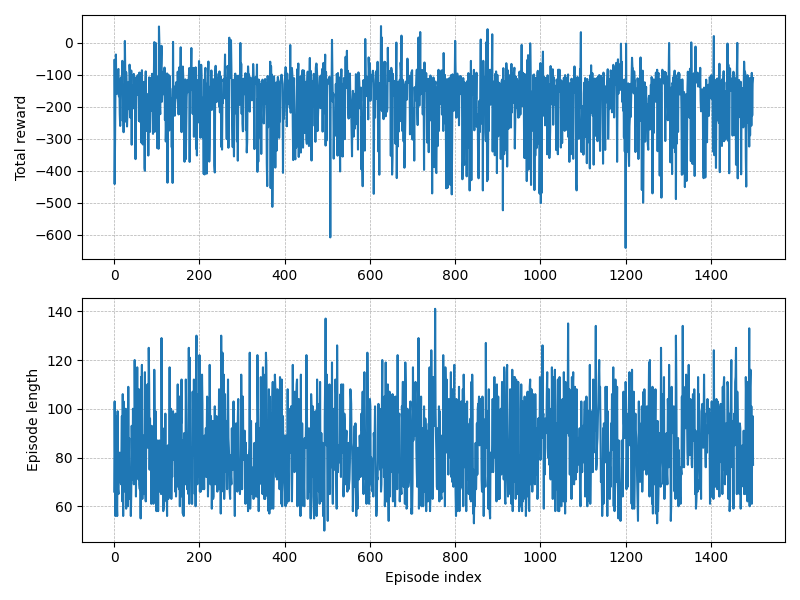
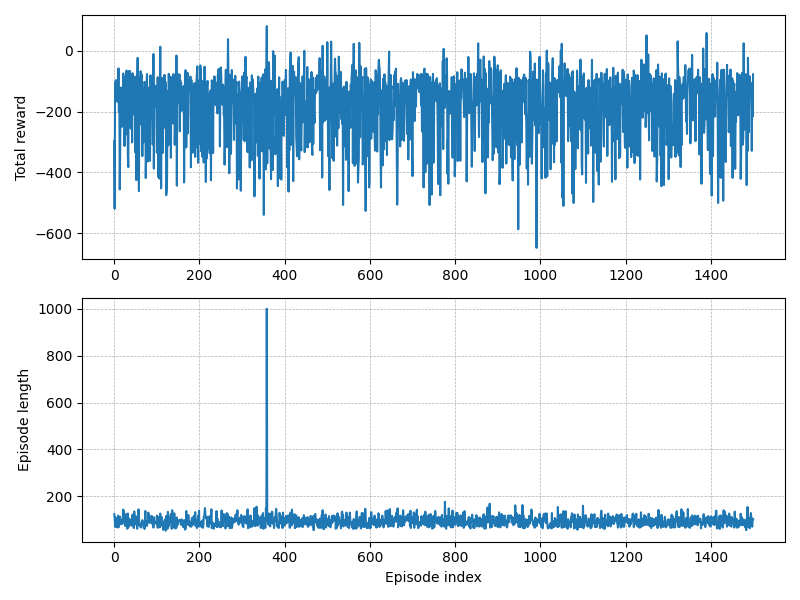
Hyperparameters update

diff --git a/lecture10/A2C.py b/lecture10/A2C.py
@@ -9,7 +9,7 @@ import network
 from pathlib import Path
 
 # Hyperparameters
-NUM_EPISODES = 1500
+NUM_EPISODES = 4800
 MAX_EPISODE_LENGTH = 10000
 gamma = 0.99
 learning_rate_theta = 5e-4
@@ -77,11 +77,7 @@ def A2C_learning(env, num_episodes=NUM_EPISODES):
                     td_target = reward
                 else:
                     # Sample next action (SARSA style)
-                    next_action_probs = actor(next_state_tensor)
-                    next_dist = torch.distributions.Categorical(next_action_probs)
-                    # next_action = next_dist.sample().item()
-
-                    # next_action_one_hot = F.one_hot(torch.tensor([next_action]), num_classes=action_size).float()
+                                        
                     v_snext = critic(next_state_tensor)
                     td_target = reward + gamma * v_snext
 

diff --git a/lecture10/QAC.py b/lecture10/QAC.py
@@ -9,8 +9,8 @@ import network
 from pathlib import Path
 
 # Hyperparameters
-NUM_EPISODES = 1500
-MAX_EPISODE_LENGTH = 1000
+NUM_EPISODES = 4800
+MAX_EPISODE_LENGTH = 10000
 gamma = 0.99
 learning_rate_theta = 5e-4
 learning_rate_w = 5e-4

diff --git a/lecture10/A2C_off_policy.py b/lecture10/A2C_off_policy.py
@@ -9,7 +9,7 @@ import network
 from pathlib import Path
 
 # Hyperparameters
-NUM_EPISODES = 1500
+NUM_EPISODES = 4800
 MAX_EPISODE_LENGTH = 10000
 gamma = 0.99
 learning_rate_theta = 5e-4
